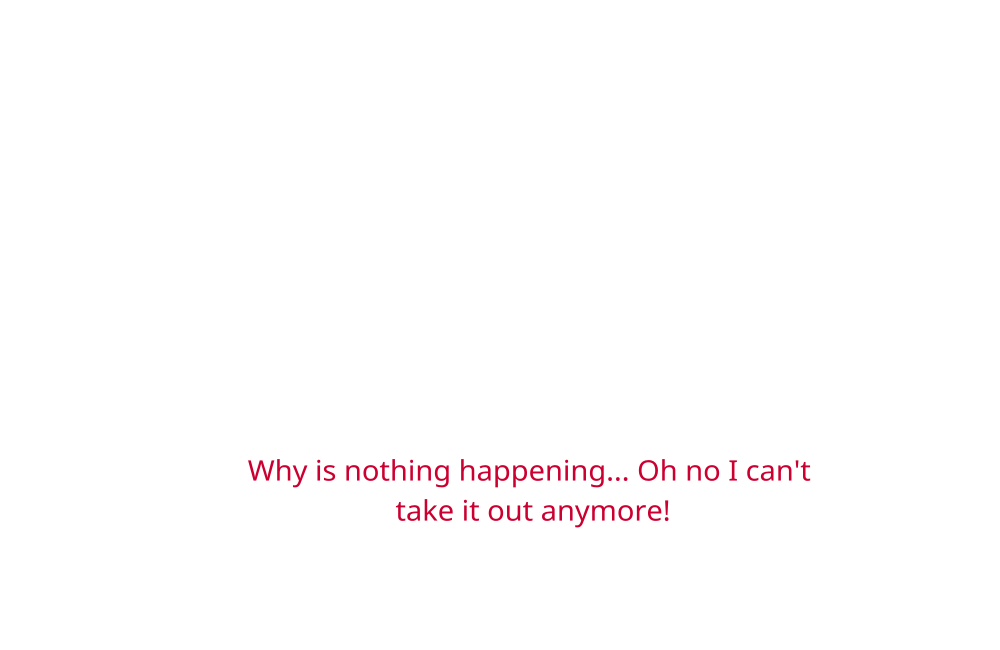
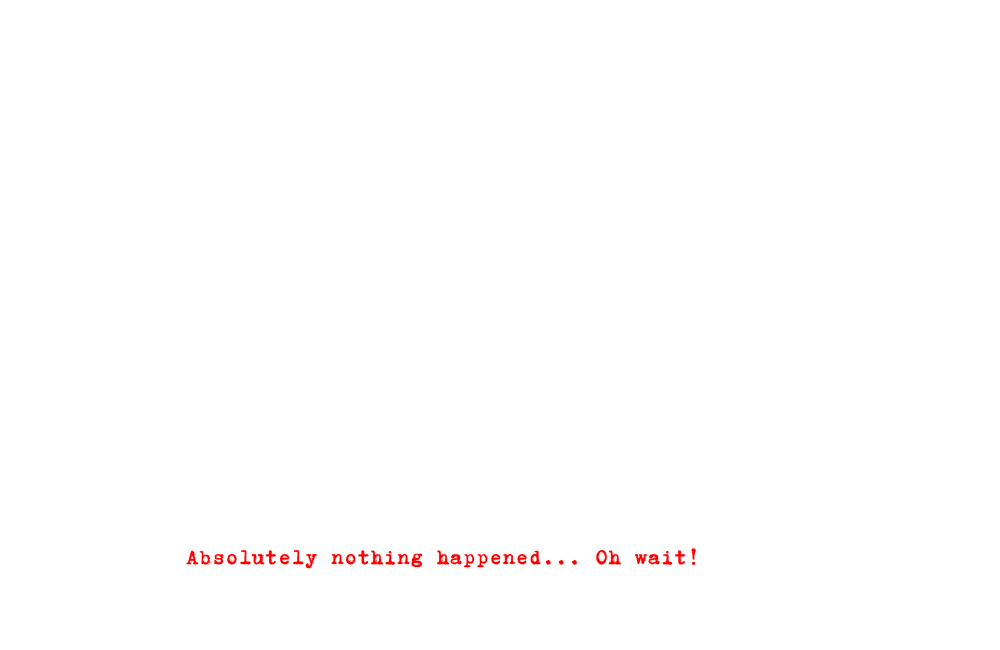
update monologue

Changed region(s): [[0.248, 0.7077, 0.806, 0.8], [0.186, 0.8308, 0.558, 0.8923], [0.589, 0.8308, 0.682, 0.8923]]

diff --git a/src/main/java/com/example/escape_the_lab/ui/rCircuit.java b/src/main/java/com/example/escape_the_lab/ui/rCircuit.java
@@ -37,7 +37,7 @@ public class rCircuit {
     ImageView openedDoor = new ImageView(new Image(Objects.requireNonNull(getClass().getResource("/images/AAACircuitLab/doorOpenC.png")).toExternalForm()));
     ImageView crack = new ImageView(new Image(Objects.requireNonNull(getClass().getResource("/images/AAACircuitLab/bigC.png")).toExternalForm()));
     ImageView body = new ImageView(new Image(Objects.requireNonNull(getClass().getResource("/images/AAACircuitLab/bodyC.png")).toExternalForm()));
-    ImageView dialogue3 = new ImageView(new Image(Objects.requireNonNull((getClass().getResource("/images/AAACircuitLab/dialogue3.png")).toExternalForm())));
+    ImageView dialogue3 = new ImageView(new Image(Objects.requireNonNull((getClass().getResource("/images/AAACircuitLab/heavyC.png")).toExternalForm())));
 
     // panel scene
     ImageView panelBG = new ImageView(new Image(Objects.requireNonNull(getClass().getResource("/images/AAACircuitLab/zoomPaneC.png")).toExternalForm()));
